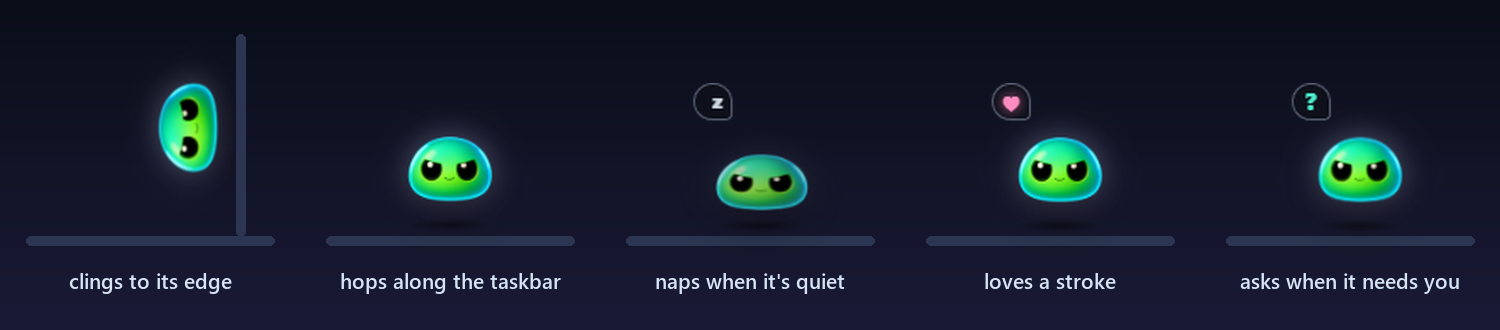
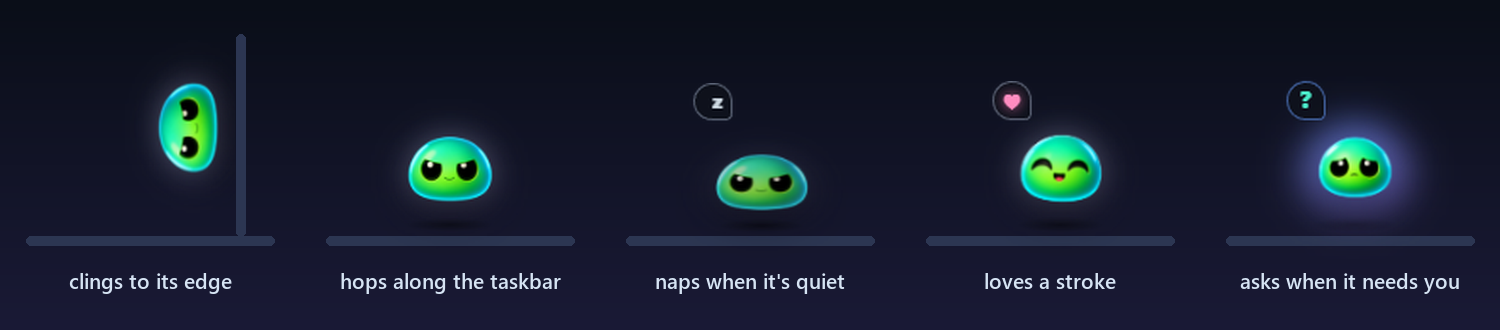
Gate the unfold on the chosen chat, give the pet its own faces

diff --git a/src/renderer/app.js b/src/renderer/app.js
@@ -191,6 +191,12 @@ const AVATARS = {
   error: "assets/avatar-error.png",
   done: "assets/avatar-done.png",
 };
+// Faces for what the pet is doing, from the classic slime set: stroked, startled, straining.
+const PET_FACES = {
+  happy: "assets/avatar-happy.png",
+  surprised: "assets/avatar-surprised.png",
+  effort: "assets/avatar-effort.png",
+};
 const AVATAR_LABELS = {
   offline: "Offline",
   idle: "ready",
@@ -936,6 +942,7 @@ function setAvatar(mode, label) {
     });
     // The avatar's glow is its own silhouette, so it follows the mood's picture.
     $("#orbRestore").style.setProperty("--avatar-mask", `url("${nextAvatar}")`);
+    syncPetFace();
     $("#avatarState").textContent = text;
     document.body.classList.remove("state-idle", "state-working", "state-waiting", "state-error", "state-done", "state-offline");
     document.body.classList.add(`state-${mode}`);
@@ -1229,7 +1236,13 @@ function animateModeEnter(previousMode) {
   // through that unseen, so the widget appeared half open and the spring was mostly lost.
   // It stays hidden until the grown window has painted once, and only then starts.
   document.body.classList.add("mode-transition-pending");
-  waitForGrownViewport().then(() => requestAnimationFrame(() => requestAnimationFrame(start)));
+  const gate = modeEnterGate;
+  waitForGrownViewport()
+    .then(() => gate && Promise.race([gate, new Promise((resolve) => setTimeout(resolve, MODE_ENTER_GATE_MS))]))
+    .then(() => {
+      if (modeEnterGate === gate) modeEnterGate = null;
+      requestAnimationFrame(() => requestAnimationFrame(start));
+    });
 }
 
 // The slime in the title bar is the avatar. Folding, it crouches, hops out of the title bar
@@ -1278,6 +1291,11 @@ function flyTitleSlime(direction, compactMode, duration) {
   };
   flyer.animate(frames, { duration, fill: "forwards" }).finished.then(land, land);
 }
+
+// Something the next unfold waits for, hidden, before it starts (openCompactSession: the
+// chat being drawn), never longer than MODE_ENTER_GATE_MS.
+let modeEnterGate = null;
+const MODE_ENTER_GATE_MS = 350;
 
 // Resolves once the window is taller than any compact size (the avatar's panel is the
 // tallest, at 184), or after a bound so a window that never grows cannot stay hidden.
@@ -6304,16 +6322,21 @@ async function openCompactSession(requestedSessionId = null, { fromAvatar = fals
   state.compactReplyBusy = false;
   state.compactReplyError = "";
   clearTimeout(state.compactNotificationTimer);
-  // The chat is chosen before the window unfolds. Switching it afterwards rendered the new
-  // conversation in the middle of the unfold, which is what made opening a chat from the
-  // avatar stutter. (The orb's resize echo no longer cancels the unfold: only a real mode
-  // change outranks a request in flight.) A slow history load is waited for only a moment.
-  const selecting = sessionId && sessionId !== state.selectedSessionId ? selectSession(sessionId, true) : null;
-  if (selecting) await Promise.race([selecting.catch(() => {}), new Promise((resolve) => setTimeout(resolve, 300))]);
-  // From the avatar's recent chats it opens small, beside the avatar.
-  await setWindowMode("full", { mini: fromAvatar });
-  if (selecting) await selecting;
-  else setTab("chat");
+  // Restore before selection publishes the collapsed compact status. While the
+  // native Orb is resizing, its authoritative mode echo cancels an in-flight
+  // animated mode request; sequencing these operations keeps Full as the intent.
+  // The unfold itself waits, hidden, for the chat to be chosen and drawn (a moment at most):
+  // drawing the new conversation in the middle of the unfold is what made it stutter.
+  let releaseUnfold = () => {};
+  modeEnterGate = new Promise((resolve) => { releaseUnfold = resolve; });
+  try {
+    // From the avatar's recent chats it opens small, beside the avatar.
+    await setWindowMode("full", { mini: fromAvatar });
+    if (sessionId && sessionId !== state.selectedSessionId) await selectSession(sessionId, true);
+    else setTab("chat");
+  } finally {
+    releaseUnfold();
+  }
   if (state.compactReplySessionId === sessionId) state.compactReplySessionId = null;
   renderReturnToAvatarButton();
   $("#messageInput")?.focus();
@@ -7225,13 +7248,42 @@ function applyPetMode(value) {
   return state.petMode;
 }
 
+// The pet's face outranks the mood's while it does something with a face of its own:
+// climbing strains, a fall or a hard landing startles it for a moment, a stroke delights it.
+let petFaceUntil = 0;
+let petFaceTimer = 0;
+function petFaceFor(orb) {
+  if (!state.petMode || state.windowMode !== "orb") return "";
+  if (orb.classList.contains("pet-happy")) return "happy";
+  const action = orb.dataset.petAction;
+  if (action === "climb") return "effort";
+  if (action === "fall" || performance.now() < petFaceUntil) return "surprised";
+  return "";
+}
+
+function syncPetFace() {
+  const orb = $("#orbRestore");
+  const image = orb?.querySelector("img[data-avatar]");
+  if (!image) return;
+  const source = PET_FACES[petFaceFor(orb)] || AVATARS[state.avatarMode] || AVATARS.idle;
+  if (!image.src.endsWith(source)) image.src = source;
+  orb.style.setProperty("--avatar-mask", `url("${source}")`);
+}
+
 function applyPetState(pet) {
   const orb = $("#orbRestore");
+  // Startled for a moment by a hard landing or by being woken.
+  if ((pet?.action === "land" && pet.impact > 0.55) || pet?.action === "wake") {
+    petFaceUntil = performance.now() + 800;
+    clearTimeout(petFaceTimer);
+    petFaceTimer = setTimeout(syncPetFace, 820);
+  }
   orb.dataset.petSurface = pet?.surface || "";
   orb.dataset.petAction = pet?.action || "";
   orb.style.setProperty("--pet-dir", String(pet?.dir || 1));
   if (Number.isFinite(pet?.impact)) orb.style.setProperty("--pet-impact", String(pet.impact));
   document.body.classList.toggle("pet-on-wall", pet?.surface === "wall");
+  syncPetFace();
   // A one-off move restarts its animation even when the same move comes twice in a row.
   if (pet?.pulse) {
     const act = orb.querySelector(".pet-act");
@@ -7273,7 +7325,8 @@ function strokePet(event) {
   orb.classList.remove("pet-happy");
   void orb.offsetWidth;
   orb.classList.add("pet-happy");
-  setTimeout(() => orb.classList.remove("pet-happy"), 1400);
+  syncPetFace();
+  setTimeout(() => { orb.classList.remove("pet-happy"); syncPetFace(); }, 1400);
   publishPetContext({ stimulus: true });
 }
 

diff --git a/CHANGELOG.md b/CHANGELOG.md
@@ -15,6 +15,7 @@ The avatar is a desktop pet now, which felt like reason enough for a 1.0.
 
 - Pet mode, on by default. The folded avatar is a slime that lives on the desktop, built the way the classic desktop pets are (Shimeji, eSheep, oneko): a small state machine picks each next move by weight from what its surface allows, gravity is real, and it rests far more than it moves. It clings to its screen edge and inches up and down it, drops to the taskbar and lands with a squash, hops along the taskbar, sits, looks around, scoots, climbs back home, and naps with z's after a minute and a half of quiet. Stroking it (the pointer back and forth over it) makes it squish happily with a heart. It holds still while the pointer is on it, a notification or the panel is open, an agent is working or waiting on you, a drag is under way or motion is reduced; it nudges you with a ? or ! when an agent asks or fails. It never wanders past the middle of the screen, so the panel always opens toward the room. Settings: "Pet mode".
 - The slime's glow is its own silhouette in the state colours, instead of a ring and a disc around it.
+- The pet has faces of its own from the classic slime set: it strains while it climbs, is startled by a fall, a hard landing or being woken, and laughs when stroked.
 - Three small buttons around the avatar on hover: recent chats, status (the eye) and fold into the screen edge. Hovering the hinge brings a little slime out above it that turns the hinge back into the avatar.
 - Status, the eye beside the chat button and the setting "Every message beside the avatar": on, each message the agent writes slides out beside the avatar for a few seconds; off, only the finished reply. Tool calls and thinking never show there.
 - A chat opened from the avatar's recent chats opens in a small window (380x540) right beside the slime instead of the full widget, and does not change where the full widget opens next time.
@@ -24,7 +25,7 @@ The avatar is a desktop pet now, which felt like reason enough for a 1.0.
 
 - The agent's questions are answered in Deck for real. The relay that receives them from Harness worked since 0.10.1, but the window never listened to it, so every question fell back to "Answer in DSH". A card still waiting on a question Deck does not hold now asks for a fresh question stream, and Harness hands every pending question to it.
 - Unfolding from the avatar no longer shows the whole widget for a frame before it grows out of the slime, and starts within a few milliseconds instead of stalling for 70 ms: the fold's cleanup took off the class that keeps the widget hidden, and the fold's anchor and dock-side values were inherited custom properties on the body, which restyled the whole conversation at the start of every fold and unfold and on each of its first frames. The unfold is also faster (0.42 s on a spring) and the avatar steps aside in 0.1 s.
-- Opening a chat from the avatar no longer stutters: the chat is chosen before the window unfolds instead of being switched in the middle of it.
+- Opening a chat from the avatar no longer stutters: the unfold waits, hidden, for the chosen chat to be drawn (a moment at most) instead of drawing it in the middle of the animation.
 - The chat heading with the way back to the avatar laid the model picker into a 36 px column.
 - The title-bar slime's hops are no longer clipped at the top of its row.
 - The toast timer and the avatar's lean during a drag no longer restyle the whole document on every change.
